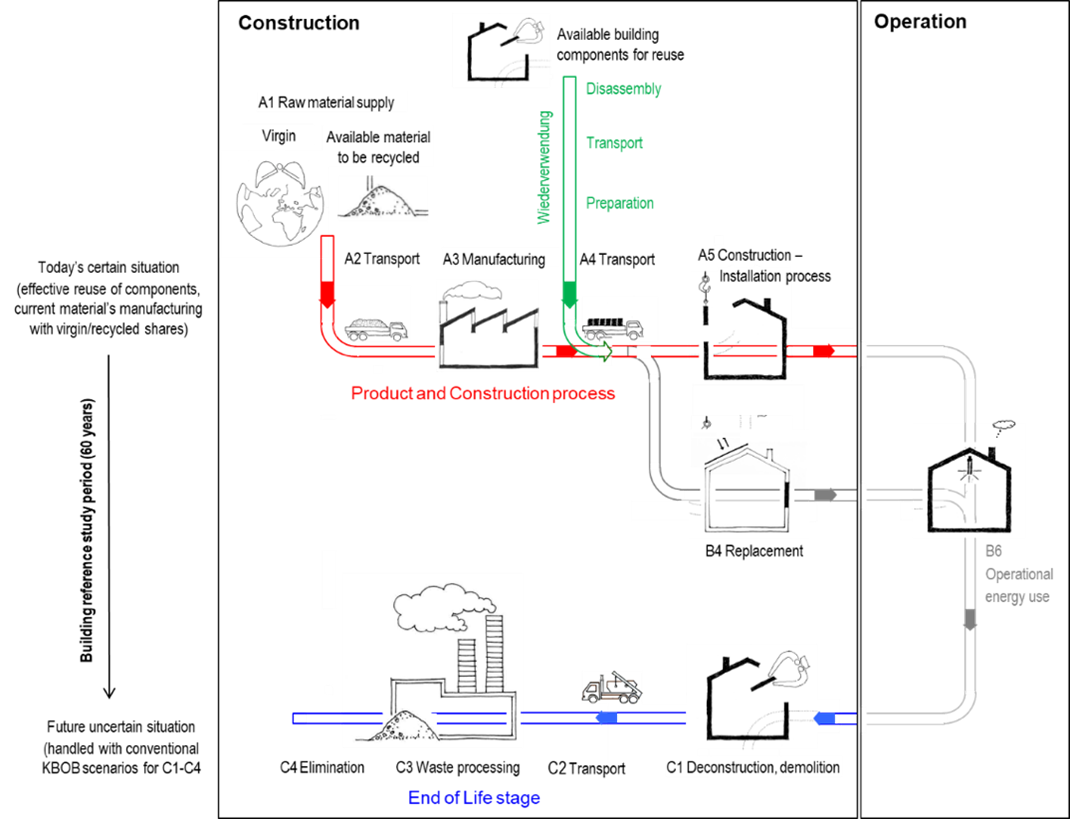
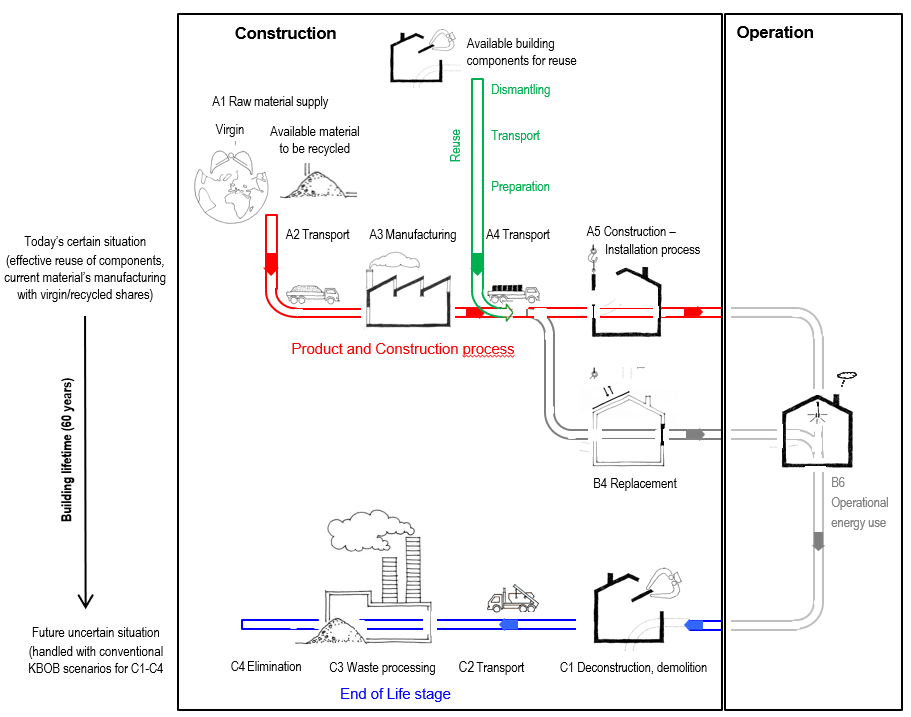
Description

Changed region(s): [[0.0, 0.0, 1.0, 1.0], [0.2459, 0.9205, 0.3381, 0.9512]]

diff --git a/html/Elys_building.html b/html/Elys_building.html
@@ -27,7 +27,7 @@
                         <li><a href="Elys_building.html" class="nav-active">Elys : prefabricated facade component</a></li>
                     </ul>
                 </li>
-                <li><a href="#meta-analysis">Meta-analysis</a></li>
+<!--                <li><a href="#meta-analysis">Meta-analysis</a></li>-->
                 <li><a href="about.html">About</a></li>
             </ul>
         </nav>
@@ -45,10 +45,13 @@
                 <h2>Description</h2>
                 <p>Type of component: prefabricated facade wall</p>
                 <p>Construction materials: </br>
-                    ● trapezoidal steel sheet (reused from the former roof superstructure)</br>
-                    ● rockwool insulation (reused)</br>
-                    ● windows (manufacturing surplus)</br>
-                    ● wood beams for structure (new and reused)</p>
+                    &nbsp;&nbsp;&nbsp;&nbsp;● trapezoidal steel sheet (reused from the former roof superstructure)</br>
+                    &nbsp;&nbsp;&nbsp;&nbsp;● mineral plaster (new)</br>
+                    &nbsp;&nbsp;&nbsp;&nbsp;● windows (manufacturing surplus)</br>
+                    &nbsp;&nbsp;&nbsp;&nbsp;● rockwool insulation (reused)</br>
+                    &nbsp;&nbsp;&nbsp;&nbsp;● wood beams for structure (new and reused)</p>
+                    &nbsp;&nbsp;&nbsp;&nbsp;● wood beams for structure (new and reused)</p>
+
                 <p>Building energy reference area (ERA): 631 m²</p>
                 <p>Area of the prefabricated facade wall in the building: xxx m²</p>
                 <p>Floors: 3</p>
@@ -60,7 +63,7 @@
     <section>
         <div class="card">
             <div class="card-content">
-                <h2>BUILDING Key Performance Indicators</h2>
+                <h2>COMPONENT Key Performance Indicators</h2>
 
                 <section class="key-numbers3">
                 <div>
@@ -88,7 +91,7 @@
     <section>
         <div class="card">
             <div class="card-content">
-                <h2>REUSE BUILDING Key Performance Indicators</h2>
+                <h2>REUSE COMPONENT Key Performance Indicators</h2>
 
                 <section class="key-numbers4">
                 <div>
@@ -148,12 +151,12 @@
             <iframe id="material_sankey" style="width: 100%; height: 700px; border: 0"></iframe>
         </div>
     </div>
-</section>
+    </section>
 
     <section class="building-impacts">
         <div class="card">
             <div class="card-content">
-                <h2>Building LCA impacts</h2>
+                <h2>Component LCA impacts per m² of wall during 60 years</h2>
                 <div>
                     <button id="button_1_ad" onclick="loadHtml('..\\html_figures\\Elys_impacts_table.html', 'building-lca'); setActiveButtons('button_1_ad', '#button_1_ad, #button_1_nv')">Actual design with reuse</button>
                     <button id="button_1_nv" onclick="loadHtml('..\\html_figures\\Elys_impacts_table_new.html', 'building-lca'); setActiveButtons('button_1_nv', '#button_1_ad, #button_1_nv')">Variant with "only new"</button>
@@ -165,29 +168,30 @@
             </div>
         </div>
     </section>
-    <section class="components-impacts">
-        <div class="card">
-            <div class="card-content">
-                <h2>GHG emissions results</h2>
-            <div>
-                <button id="button_comparison_gwp1" onclick="loadHtml('..\\html_figures\\Elys_impact_total_comparing_tonnes.html', 'bar_comparison'); setActiveButtons('button_comparison_gwp1','#button_comparison_gwp1, #button_comparison_gwp2, #button_comparison_gwp3')">Construction </button>
-                <button id="button_comparison_gwp2" onclick="loadHtml('..\\html_figures\\Elys_impact_total_bundle_tonnes.html', 'bar_comparison'); setActiveButtons('button_comparison_gwp2','#button_comparison_gwp1, #button_comparison_gwp2, #button_comparison_gwp3')">By building layers</button>
-                <button id="button_comparison_gwp3" onclick="loadHtml('..\\html_figures\\Elys_impact_total_lot_tonnes.html', 'bar_comparison'); setActiveButtons('button_comparison_gwp3','#button_comparison_gwp1, #button_comparison_gwp2, #button_comparison_gwp3')">By building element</button>
-                <button id="button_info_reuse_impacts" class="info-button" onclick="showModal('reuseImpactsDialog')">&#8505; Graph Instructions</button>
-            </div>
-            <div id="unit-selection" style="display: block;margin-top: 20px;">
-                <label for="unit-select">Choose unit:</label>
-                <select id="unit-select" onchange="updateGraph()">
-                    <option value="tonnes">Tonnes of CO2 equivalent</option>
-                    <option value="kg_per_m2">Kg of CO2 equivalent per m2</option>
-                    <option value="kg_per_m2_per_year">Kg of CO2 equivalent per m2 per year</option>
-                </select>
-            </div>
-            <div>
-            </div>
-            <iframe id="bar_comparison" style="width: 100%; height: 400px; border: 0"></iframe>
-        </div>
-    </div>
+<!--    <section class="components-impacts">-->
+<!--        <div class="card">-->
+<!--            <div class="card-content">-->
+<!--                <h2>GHG emissions results</h2>-->
+<!--            </div>-->
+<!--            <div>-->
+<!--                <button id="button_comparison_gwp1" onclick="loadHtml('..\\html_figures\\Elys_impact_total_comparing_tonnes.html', 'bar_comparison'); setActiveButtons('button_comparison_gwp1','#button_comparison_gwp1, #button_comparison_gwp2, #button_comparison_gwp3')">Construction </button>-->
+<!--                <button id="button_comparison_gwp2" onclick="loadHtml('..\\html_figures\\Elys_impact_total_bundle_tonnes.html', 'bar_comparison'); setActiveButtons('button_comparison_gwp2','#button_comparison_gwp1, #button_comparison_gwp2, #button_comparison_gwp3')">By building layers</button>-->
+<!--                <button id="button_comparison_gwp3" onclick="loadHtml('..\\html_figures\\Elys_impact_total_lot_tonnes.html', 'bar_comparison'); setActiveButtons('button_comparison_gwp3','#button_comparison_gwp1, #button_comparison_gwp2, #button_comparison_gwp3')">By building element</button>-->
+<!--                <button id="button_info_reuse_impacts" class="info-button" onclick="showModal('reuseImpactsDialog')">&#8505; Graph Instructions</button>-->
+<!--            </div>-->
+<!--            <div id="unit-selection" style="display: block;margin-top: 20px;">-->
+<!--                <label for="unit-select">Choose unit:</label>-->
+<!--                <select id="unit-select" onchange="updateGraph()">-->
+<!--                    <option value="tonnes">Tonnes of CO2 equivalent</option>-->
+<!--                    <option value="kg_per_m2">Kg of CO2 equivalent per m2</option>-->
+<!--                    <option value="kg_per_m2_per_year">Kg of CO2 equivalent per m2 per year</option>-->
+<!--                </select>-->
+<!--            </div>-->
+<!--            <div>-->
+<!--            </div>-->
+<!--            <iframe id="bar_comparison" style="width: 100%; height: 400px; border: 0"></iframe>-->
+<!--        </div>-->
+<!--    </section>-->
 </div>
 
 

diff --git a/html/methodology.html b/html/methodology.html
@@ -33,9 +33,10 @@
             </p>
             <div class="card-content" style="text-align: center">
                 <figure style="display: inline-block; text-align: center;">
-                    <img src=..\pictures\methodo-building-life-cycle.png height="500px" >
-                    <figcaption style="font-style: italic; text-align: center;">Graphical illustration of the building life
-                    cycle with the upstream and downstream flows for reuse adapted from the SIA 2032:2020 technical book.</figcaption>
+                    <img src=..\pictures\methodo-building-life-cycle.png height="600px" >
+                    <figcaption style="font-style: italic; text-align: center;">Graphical illustration of the building life cycle with the upstream and
+                        downstream flows for reuse adapted from the SIA 390/1 Climate – GHG emissions over the life cycle
+                        of the building, Appendix B.3 Reuse of building components.</figcaption>
                 </figure>
             </div>
         </div>
@@ -88,10 +89,10 @@
                 ● The inclusion of the disassembly activity in the new life cycle of the reused product. (Yes)<br/>
                 ● The inclusion of the disposal of waste, cuts and losses occurring during the preparation of reused components. (Yes)<br/>
                 ● How to account for preparation activities specific to reused components that take place on the construction or renovation site. (In module A3)<br/>
-                ● The future replacement scenario for the reused component: will it be replaced by an identical reused component or by a new equivalent component? (New equivalent component)<br/>
+                ● The future replacement scenario for the reused component: will it be replaced by an identical reused component or by a new equivalent component ? (New equivalent component)<br/>
                 ● How is the new equivalent product substituted by a reused product defined ? (Material equivalency, and
-                functional equivalency for thermal insulation material, windows and photovoltaic panels )<br/>
-                ● What perimeter is considered in comparing reused and new product burdens?<br/>
+                functional equivalency for thermal insulation material, windows and photovoltaic panels)<br/>
+                ● What perimeter is considered in comparing reused and new product burdens ? (Demand side perimeter) <br/>
             </p>
         </div>
     </div>

diff --git a/html/K118_building.html b/html/K118_building.html
@@ -27,7 +27,7 @@
                         <li><a href="Elys_building.html">Elys : prefabricated facade component</a></li>
                     </ul>
                 </li>
-                <li><a href="#meta-analysis">Meta-analysis</a></li>
+<!--                <li><a href="#meta-analysis">Meta-analysis</a></li>-->
                 <li><a href="about.html">About</a></li>
             </ul>
         </nav>
@@ -46,7 +46,7 @@
                 <p>Type of project: Transformation and vertical extension</p>
                 <p>Type of building: Offices and workshops</p>
                 <p>Construction materials: Old bricks and new steel structure</p>
-                <p>Building energy reference area (ERA): 1416.3 m²</p>
+                <p>Building energy reference area (ERA): 1416 m²</p>
                 <p>Floors: 6</p>
                 <p>Location: Winterthur (ZU), CH</p>
                 <p>Project phase: Completed in 2021</p>

diff --git a/html/Denens_building.html b/html/Denens_building.html
@@ -27,7 +27,7 @@
                         <li><a href="Elys_building.html">Elys : prefabricated facade component</a></li>
                     </ul>
                 </li>
-                <li><a href="#meta-analysis">Meta-analysis</a></li>
+<!--                <li><a href="#meta-analysis">Meta-analysis</a></li>-->
                 <li><a href="about.html">About</a></li>
             </ul>
         </nav>

diff --git a/html/Faraday_building.html b/html/Faraday_building.html
@@ -27,7 +27,7 @@
                         <li><a href="Elys_building.html">Elys : prefabricated facade component</a></li>
                     </ul>
                 </li>
-                <li><a href="#meta-analysis">Meta-analysis</a></li>
+<!--                <li><a href="#meta-analysis">Meta-analysis</a></li>-->
                 <li><a href="about.html">About</a></li>
             </ul>
         </nav>

diff --git a/html/Hobelwerk_building.html b/html/Hobelwerk_building.html
@@ -27,7 +27,7 @@
                         <li><a href="Elys_building.html">Elys : prefabricated facade component</a></li>
                     </ul>
                 </li>
-                <li><a href="#meta-analysis">Meta-analysis</a></li>
+<!--                <li><a href="#meta-analysis">Meta-analysis</a></li>-->
                 <li><a href="about.html">About</a></li>
             </ul>
         </nav>

diff --git a/templates/case_study_nav_bar.html b/templates/case_study_nav_bar.html
@@ -19,7 +19,7 @@
                         <li><a href="Elys_building.html">Elys : prefabricated facade wall</a></li>
                     </ul>
                 </li>
-                <li><a href="#meta-analysis">Meta-analysis</a></li>
+<!--                <li><a href="#meta-analysis">Meta-analysis</a></li>-->
                 <li><a href="about.html">About</a></li>
             </ul>
         </nav>
